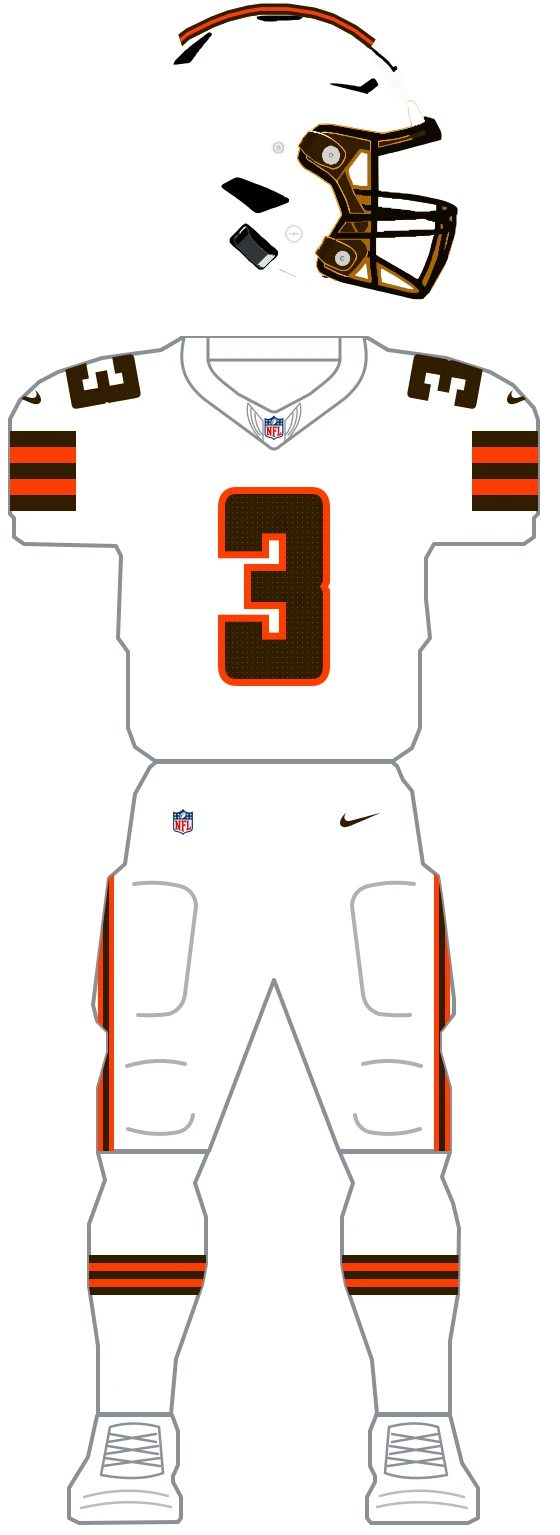
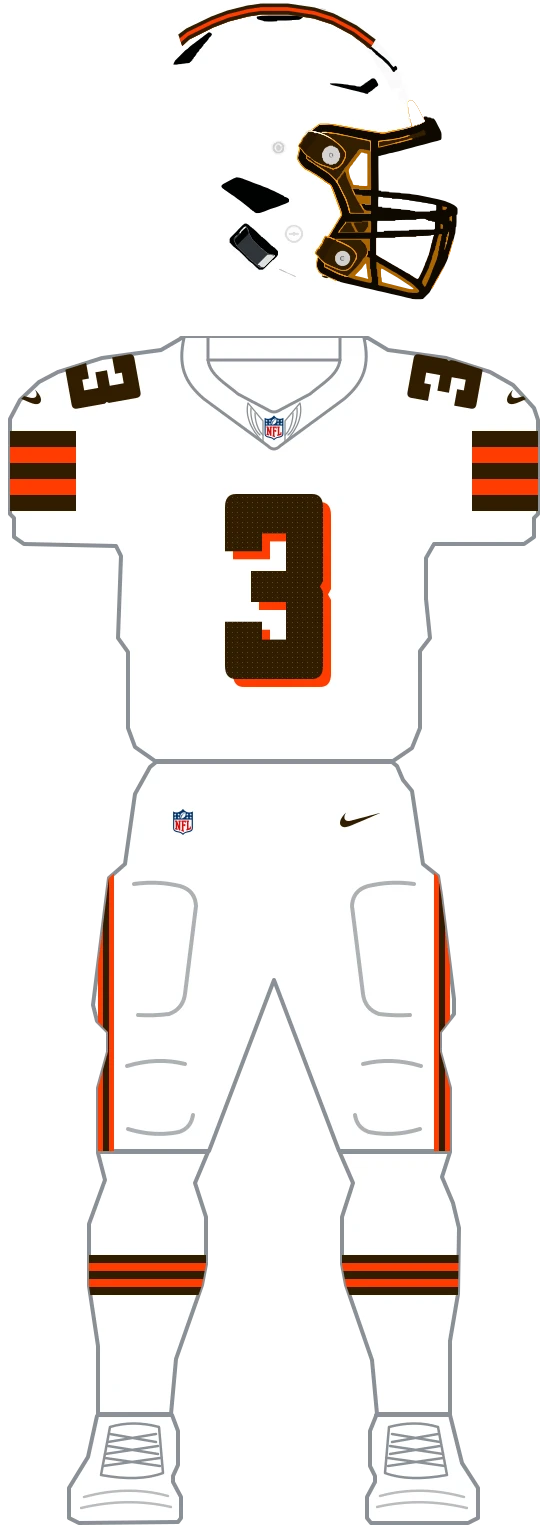
fix(uniforms): add the 2021 orange throwback helmet, the throwback numeral shadow and the away white helmet for the Browns

Changed region(s): [[0.3643, 0.3062, 0.6071, 0.4593]]

diff --git a/web/lib/uniforms/teams/browns/marks/numbers.ts b/web/lib/uniforms/teams/browns/marks/numbers.ts
@@ -1,3 +1,21 @@
+import { placed } from '../../core/marks';
+
 // A very heavy block numeral with softly rounded outer corners and almost no waist notch.
 export const BROWNS_NUMBER_THREE =
   'M256,539 L332,539 Q343,539 343,550 L343,612 L340,616.5 L343,621 L343,683 Q343,694 332,694 L256,694 Q245,694 245,683 L245,646 L282,646 L282,661 L306,661 L306,629.5 L271,629.5 L271,603.5 L306,603.5 L306,572 L282,572 L282,587 L245,587 L245,550 Q245,539 256,539 Z';
+
+// The throwback's orange drop shadow: the 185-unit chest numeral offset 8 units right and down,
+// painted under the numeral.
+const NUMBER_THREE_SHADOW =
+  'M264,547 L340,547 Q351,547 351,560.13 L351,634.13 L348,639.5 L351,644.87 L351,718.87 Q351,732 340,732 L264,732 Q253,732 253,718.87 L253,674.71 L290,674.71 L290,692.61 L314,692.61 L314,655.02 L279,655.02 L279,623.98 L314,623.98 L314,586.39 L290,586.39 L290,604.29 L253,604.29 L253,560.13 Q253,547 264,547 Z';
+
+export const BROWNS_THROWBACK_NUMBER_SHADOW = placed([
+  {
+    id: 'browns-throwback-number-shadow',
+    surface: 'jersey',
+    clip: true,
+    kind: 'fill',
+    fill: 'orange',
+    d: NUMBER_THREE_SHADOW,
+  },
+]);

diff --git a/web/lib/uniforms/teams/browns/parts.ts b/web/lib/uniforms/teams/browns/parts.ts
@@ -10,6 +10,7 @@ import {
   BROWNS_ORANGE_HELMET_STRIPE,
   BROWNS_ORANGE_PANTS_CENTRE_LINE,
   BROWNS_PANTS_CENTRE_LINE,
+  BROWNS_THROWBACK_HELMET_STRIPE,
   BROWNS_WHITE_HELMET_STRIPE,
 } from './marks/construction';
 import { BROWNS_JERSEY_BROWN } from './jerseys/brown';
@@ -59,7 +60,16 @@ export const BROWNS_SPEC: TeamSpec = {
       decal: BROWNS_ORANGE_HELMET_STRIPE,
       number: 'none',
     },
-    // The 1946 throwback's white shell with a brown-orange-brown stripe and a brown cage.
+    // The throwback's 2021 orange shell: a single white centre stripe, brown side numerals and the
+    // grey cage.
+    'orange-1946': {
+      shell: 'orange',
+      facemask: 'neutral',
+      decal: BROWNS_THROWBACK_HELMET_STRIPE,
+      number: { fill: 'brown' },
+    },
+    // The white shell, worn with the 1946 throwback from 2023 and with the away jersey,
+    // with a brown-orange-brown stripe and a brown cage.
     white: { shell: 'white', facemask: 'brown', decal: BROWNS_WHITE_HELMET_STRIPE, number: 'none' },
   },
   jerseys: {

diff --git a/web/lib/uniforms/teams/browns/catalog.ts b/web/lib/uniforms/teams/browns/catalog.ts
@@ -83,6 +83,14 @@ export const BROWNS_CATALOG: TeamCatalog = {
           pantsNike: 'brown',
           socks: 'white',
         },
+        {
+          key: 'white-helmet',
+          label: 'White helmet',
+          helmet: 'white',
+          pants: 'orange',
+          pantsNike: 'brown',
+          socks: 'white',
+        },
       ],
     },
     {
@@ -106,6 +114,14 @@ export const BROWNS_CATALOG: TeamCatalog = {
           key: 'standard',
           label: 'Standard',
           helmet: 'white',
+          pants: 'white',
+          pantsNike: 'brown',
+          socks: 'white',
+        },
+        {
+          key: 'orange-helmet',
+          label: 'Orange helmet (2021)',
+          helmet: 'orange-1946',
           pants: 'white',
           pantsNike: 'brown',
           socks: 'white',

diff --git a/web/lib/uniforms/teams/browns/jerseys/throwback.ts b/web/lib/uniforms/teams/browns/jerseys/throwback.ts
@@ -1,13 +1,10 @@
 import type { CompleteJerseySpec } from '../../core/complete';
+import { BROWNS_THROWBACK_NUMBER_SHADOW } from '../marks/numbers';
 import { BROWNS_JERSEY_WHITE } from './white';
 
-// The 1946 throwback: the white jersey's construction with brown chest numerals outlined in
-// orange.
+// The 1946 throwback: the white jersey's construction with brown chest numerals over an orange
+// drop shadow.
 export const BROWNS_JERSEY_THROWBACK: CompleteJerseySpec = {
   ...BROWNS_JERSEY_WHITE,
-  number: {
-    ...BROWNS_JERSEY_WHITE.number,
-    outline: 'orange',
-    outlineWeight: 'regular',
-  },
+  marks: [{ paint: 'under', mark: BROWNS_THROWBACK_NUMBER_SHADOW }],
 };

diff --git a/web/lib/uniforms/teams/browns/marks/construction.ts b/web/lib/uniforms/teams/browns/marks/construction.ts
@@ -13,6 +13,16 @@ export const BROWNS_ORANGE_HELMET_STRIPE = placed(
   ])
 );
 
+// The 2021 throwback orange shell's single white centre stripe, a third of the three-band width:
+// the outer bands are shell-coloured.
+export const BROWNS_THROWBACK_HELMET_STRIPE = placed(
+  seatedCrownStripe([
+    { id: 'browns-helmet-crown-orange-top', fill: 'orange', weight: 1 },
+    { id: 'browns-helmet-crown-white', fill: 'white', weight: 1 },
+    { id: 'browns-helmet-crown-orange-bottom', fill: 'orange', weight: 1 },
+  ])
+);
+
 // The white shell's brown-orange-brown centre stripe.
 export const BROWNS_WHITE_HELMET_STRIPE = placed(
   seatedCrownStripe([
